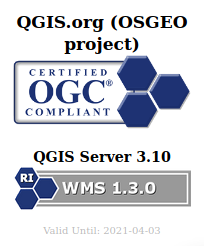
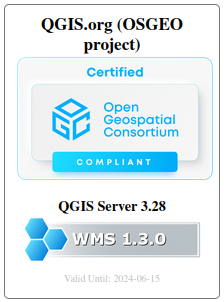
Update OGC badge for QGIS Server 3.28

diff --git a/source/site/getinvolved/daily_reports/ogc.rst b/source/site/getinvolved/daily_reports/ogc.rst
@@ -1,7 +1,7 @@
 OGC Certification
 =================
 
-QGIS Server 3.10 is currently certified for WMS 1.3.0 (see
+QGIS Server 3.28 is currently certified for WMS 1.3.0 (see
 `OGC Reference Implementation <http://www.opengeospatial.org/resource/products>`_).
 
 .. image:: /static/site/getinvolved/daily_reports/qgis_server_wms_ogc_badge.png
